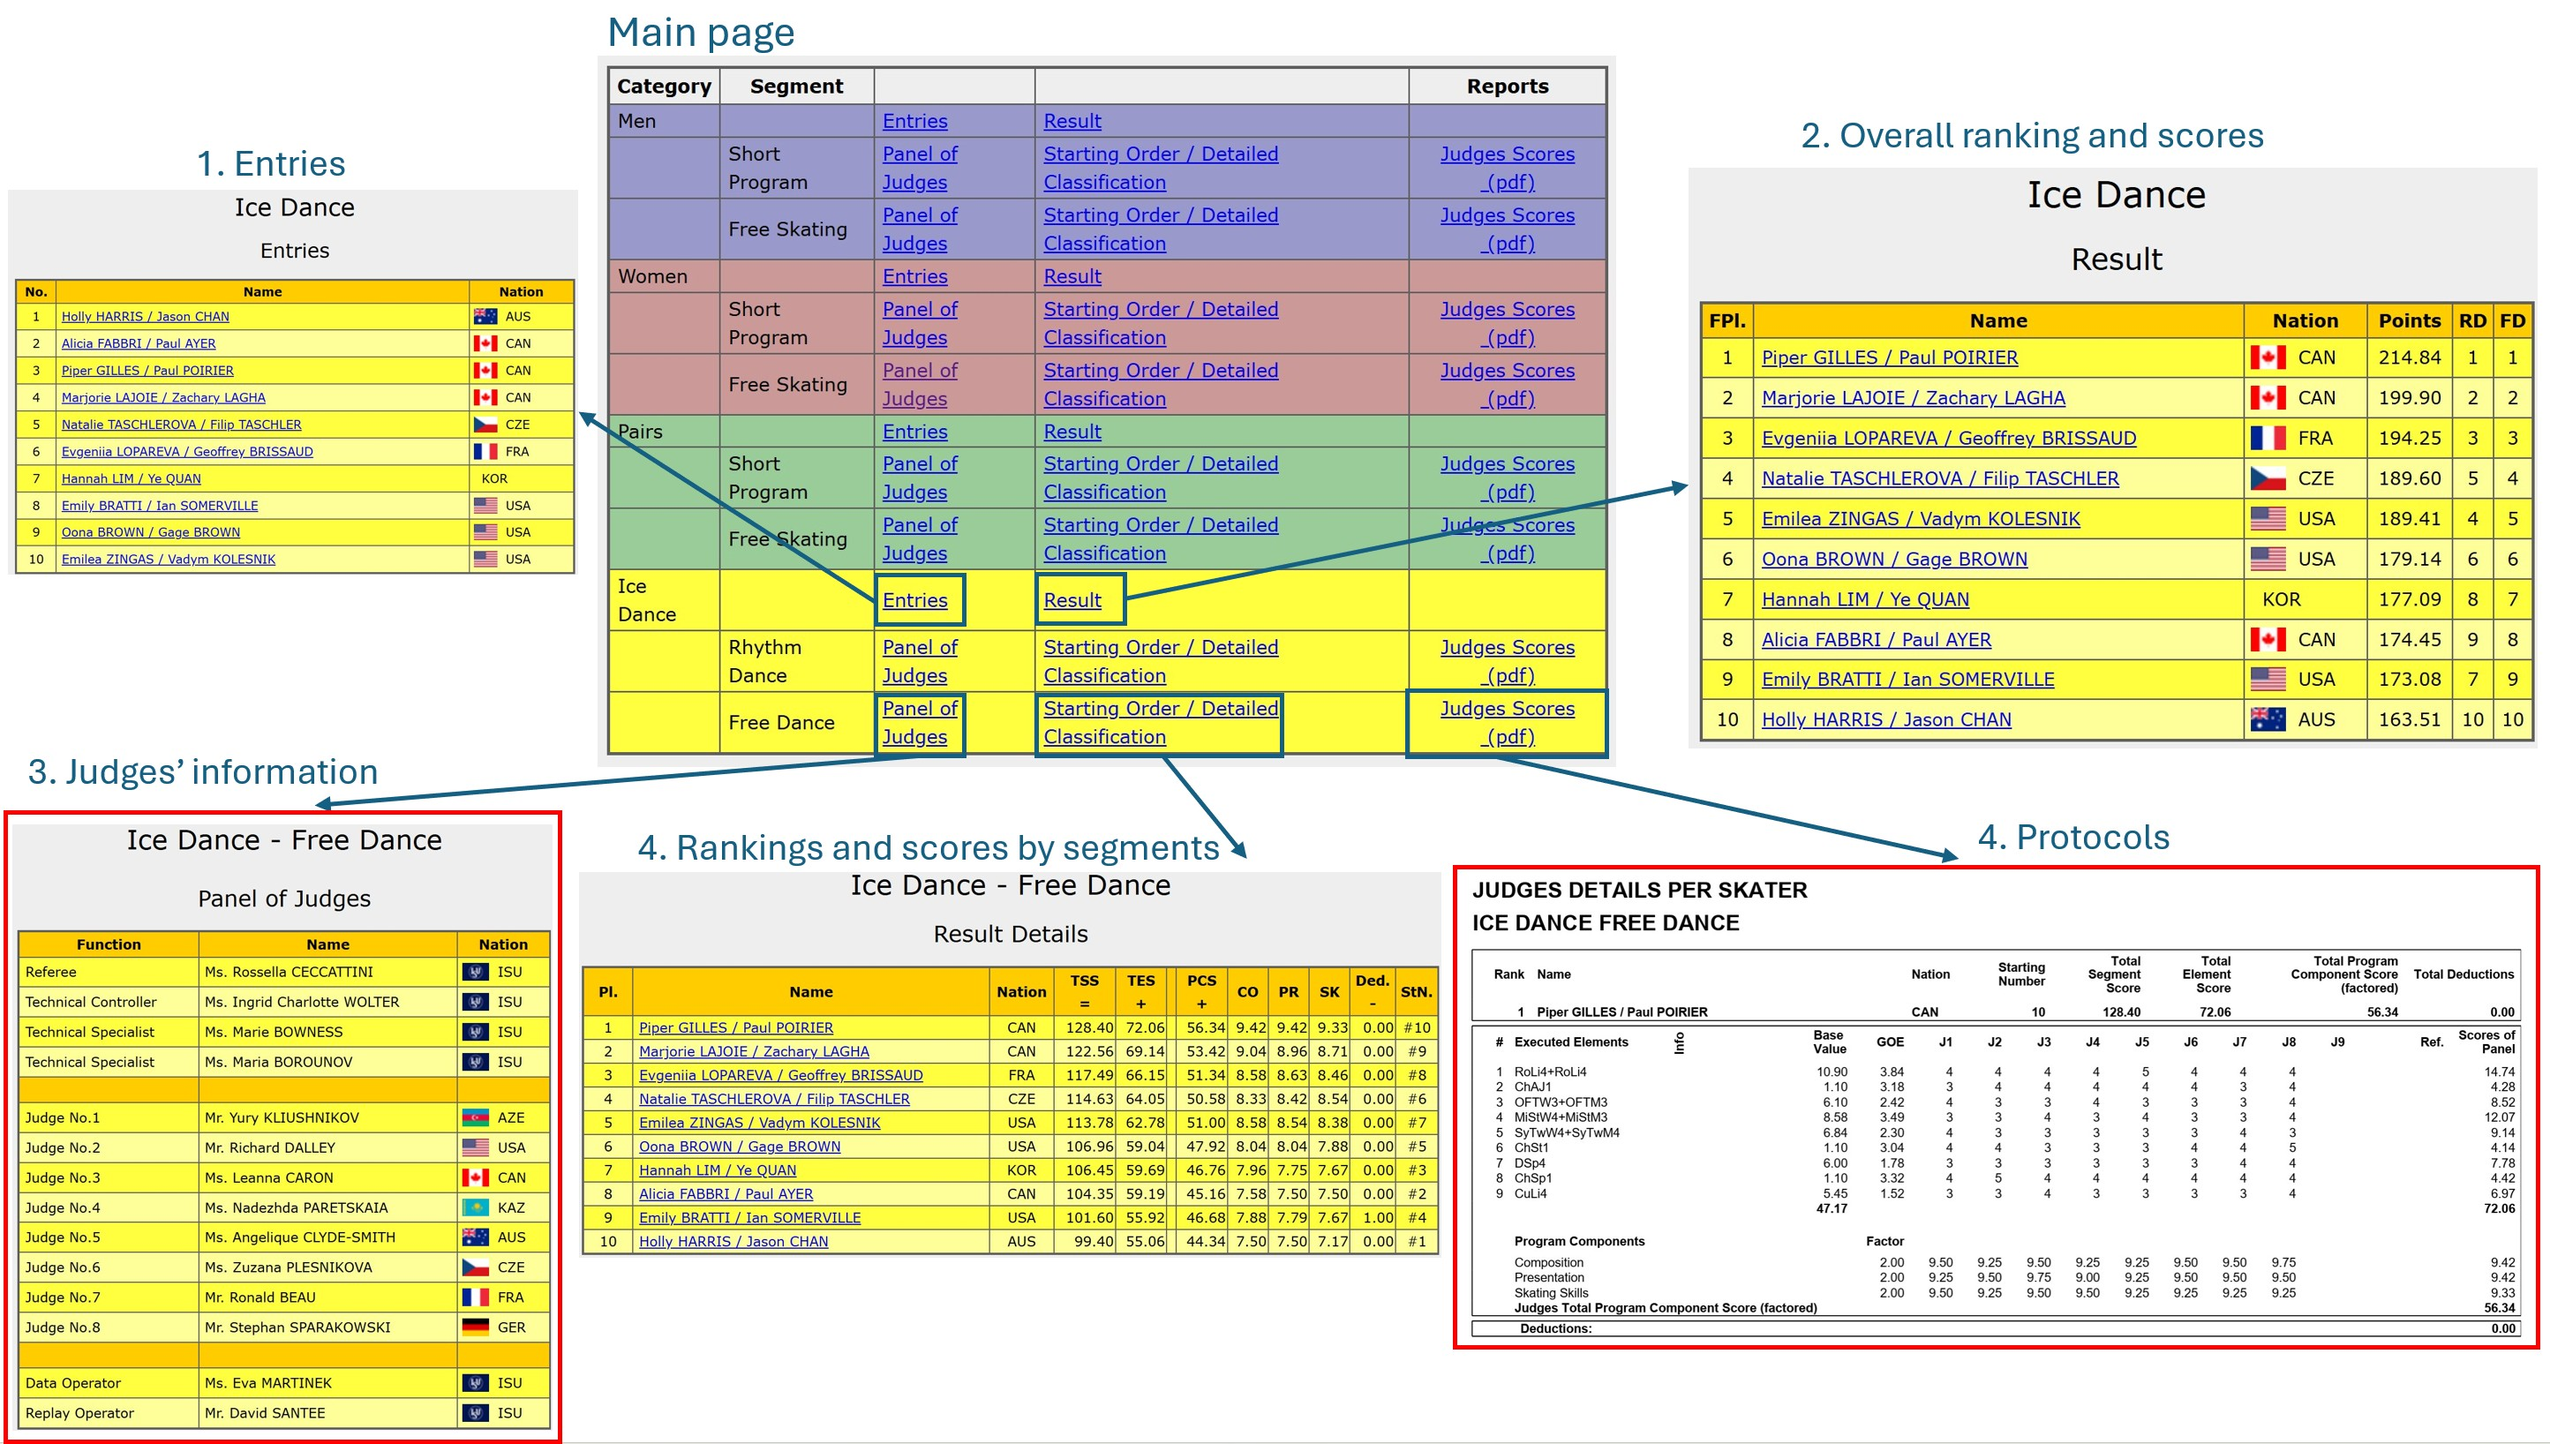
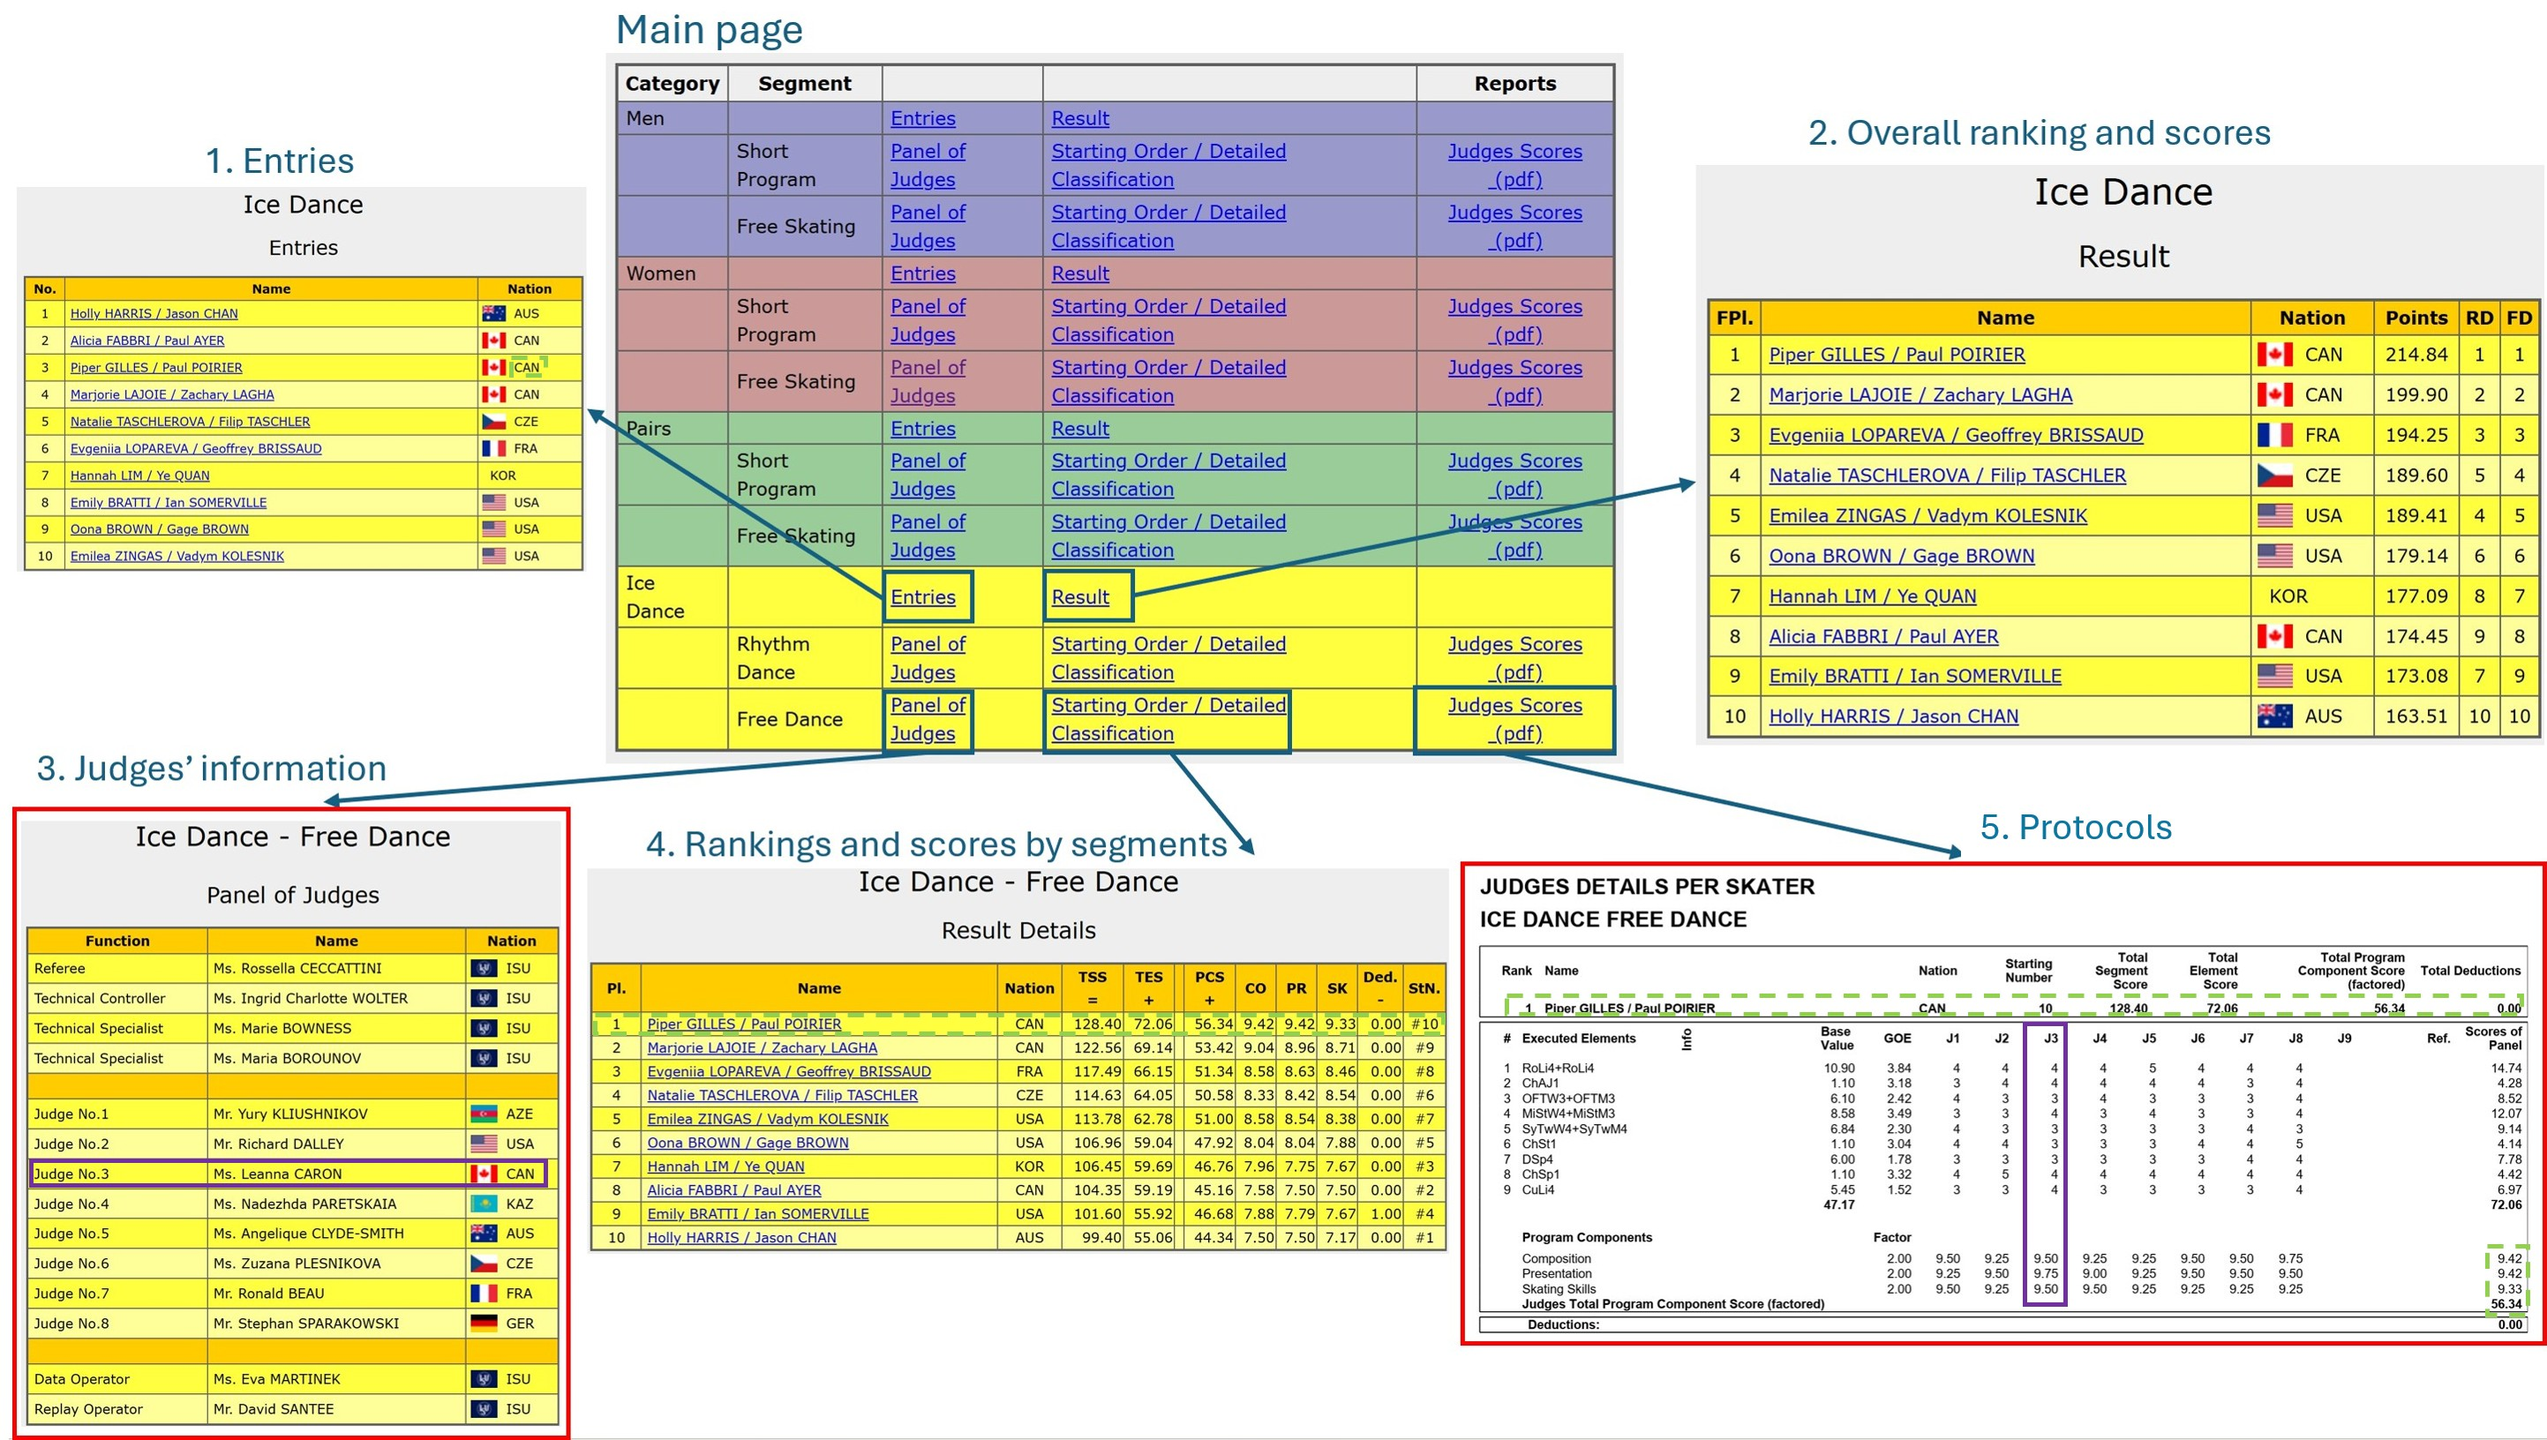
Minor changes in README

Changed region(s): [[0.0, 0.0, 1.0, 1.0]]

diff --git a/README.md b/README.md
@@ -15,9 +15,9 @@ bash run_pipeline.sh
 ```
 
 ## Background
-Figure skating is a sport in which skaters execute pre-planned technical elements (e.g., jumps, spins) within a choreographed routine set to music. There are typically two segments in each competition: short program/rhythm dance (SP) and long program/free dance (LP).[^1] Most competitions contain four disciplines: women, men, ice dance, and pairs. Under the ISU Judging System (IJS), a panel of (typically) 9 judges gives two scores in each segment: the technical element score (TES) and the program component score (PCS). The TES reflects the difficulty and quality of execution for technical elements (such as jumps and spins), and the PCS evaluates the artistic and presentation aspects of the program.
+Figure skating is a sport in which skaters execute pre-planned technical elements (e.g., jumps, spins) within a choreographed routine set to music. There are typically two segments in each competition: short program/rhythm dance (SP) and long program/free dance (FP).[^1] Most competitions contain four disciplines: women, men, ice dance, and pairs. Under the ISU Judging System (IJS), a panel of (typically) 9 judges gives two scores in each segment: the technical element score (TES) and the program component score (PCS). The TES reflects the difficulty and quality of execution for technical elements, and the PCS evaluates the artistic and presentation aspects of the program.
 
-In each season, the ISU holds approximately 18 Level-A competitions, the highest level of international competitions in the sport. These typically include seven Junior Grand Prix (JGP) Series events, six Grand Prix (GP) Series events, the Grand Prix Final (GPF), the Four Continents Championships, the European Championships, the World Championships, and the Junior World Championships. In Olympic seasons, the Olympic Games are also included.
+In each season, the ISU holds approximately 18 elite competitions, the highest level of international competitions in the sport. These typically include seven Junior Grand Prix (JGP) Series events, six Grand Prix (GP) Series events, the Grand Prix Final (GPF), the Four Continents Championships, the European Championships, the World Championships, and the Junior World Championships. In Olympic seasons, the Olympic Games are also held, with figure skating competitions conducted under ISU regulations.
 
 ## Data
 ISU publicizes the detailed competition results after each competition, including not only final rankings and scores, but also the detailed protocols that document the scores given by each judge for each element. Figure 1 shows the information publicized by ISU for Grand Prix (GP) Canada 2024 (click [here](https://www.isuresults.com/results/season2425/gpcan2024/) to see the original webpage). We can see that for each discipline, ISU discloses
@@ -27,9 +27,9 @@ ISU publicizes the detailed competition results after each competition, includin
   4. Ranking and scores by segments;
   5. **Protocols**.
 
-Among these five components, judges’ information and protocols are the most informative. They not only contain detailed, element-by-element scores assigned by each judge, but also allow us to derive higher-level information found in the other components, such as skaters’ nationalities (also documented in 1), segment rankings and segment scores (also documented in 4). Because judges’ information and protocols already subsume the content of the remaining components, I focus on these two sources for data collection.
+Among these five components, **judges’ information (3) and protocols (5) are the most informative** (highlighted with a red box in Figure 1). With these two pieces of information, we are able to trace element-level scores given by each judge to each skater by mapping judges' ids between the two sources (see the purple boxes).[^2] In addition, using the protocols we can also derive higher-level information found in the other components, such as skaters’ nationalities, starting orders, segment rankings and segment scores (see the dashed green boxes). Because judges’ information and protocols already subsume the content of the remaining components, I focus on these two sources for data collection.
 
-For each competition, all available information is downloaded in HTML or PDF formats. Web scraping and PDF extraction techniques are then applied to reconstruct the judges’ information and protocols into structured tabular datasets.
+For each competition, all available information is downloaded in HTML or PDF formats. Web scraping and PDF extraction techniques are then applied to reconstruct the judges’ information (3) and protocols (5) into structured tabular datasets.
 
 <p align="center">
   <img src="screenshots/gpcan.jpg" alt="Alt text" width="800"/>
@@ -41,15 +41,15 @@ For each competition, all available information is downloaded in HTML or PDF for
 run_pipeline.sh executes the following scripts sequentially.
 1. 01_download_main_page_to_html.py
     - For each competition URL listed in ``data/links/comp_links.csv``, this script downloads the main results page as an HTML file and stores it under ``data/raw/{comp_name_abbre}/{comp_name_abbre}.html``.
-        - ``data/links/comp_links.csv`` contains 379 competition URLs covering the 2004–2005 through 2024–2025 seasons. These URLs are collected using the ISU’s link naming conventions combined with manual search and verification. **The version of comp_links.csv included in this repository contains a sample of 8 links for demonstration purposes**. The full list is available upon request.
+        - ``data/links/comp_links.csv`` contains **379** competition URLs covering the 2004–2005 through 2024–2025 seasons. These URLs are collected using the ISU’s link naming conventions combined with manual search and verification. **The version of comp_links.csv included in this repository contains a sample of 8 links for demonstration purposes**. The full list is available upon request.
 2. 02_link_name_mapping.py
     - For each downloaded main results page, this script extracts the table containing internal links to the detailed competition information — namely, the five components described in the Data section — and constructs a mapping between each link and its corresponding descriptive name. The name mapping files are stored under ``data/raw/{comp_name_abbre}/link_name_mapping.json``.
 3. 03_download_results_to_html_or_pdf.py
     - Using the ``link_name_mapping.json`` constructed in the previous step, this script downloads detailed competition results, protocols and judges' information (the five components described in the Data section) as HTML or PDF files and stores them under the respective competition directories.
 4. 04_judge_scraping.py
-    - This script identifies HTML files that contain judge information based on the ``link_name_mapping.json`` files created in step 02, and extracts judge information for each competition and saves it as pickled DataFrames in the respective competition directories.
+    - This script identifies HTML files that contain judge information based on the ``link_name_mapping.json`` files created in step 02, and extracts judges' information for each competition and saves it as pickled DataFrames in the respective competition directories.
 5. 05_judge_cleaning.py
-    - This script appends and cleans the judge information from all competitions and stores it under ``data/cleaned/judges.pkl``. To preserve the origin of each record, the script adds contextual identifiers — including competition name, season, discipline (e.g., women), and segment (e.g., short program) — so that every row can be traced back to its source competition, discipline, and segment.
+    - This script appends and cleans the judges' information from all competitions and stores it under ``data/cleaned/judges.pkl``. To preserve the origin of each record, the script adds contextual identifiers — including competition name, season, discipline (e.g., women), and segment (e.g., short program) — so that every row can be traced back to its source competition, discipline, and segment.
 6. 06_protocol_pdf_scraping.py
     - This script identifies PDF files that contain the protocols (detailed scoring sheets) based on the ``link_name_mapping.json`` files created in step 02, and extracts detailed element-level scores assigned by each judge for each competition and saves it as pickled DataFrames in the respective competition directories.
 7. 07_protocol_pdf_cleaning.py
@@ -64,7 +64,7 @@ To facilitate exploration and understanding of the data structure, a sample raw 
 |-- README.md
 |-- data
 |   |-- cleaned
-|   |   |-- judges.pkl # cleaned dataset for judge information (step 05 output)
+|   |   |-- judges.pkl # cleaned dataset for judges' information (step 05 output)
 |   |   `-- protocols.pkl # cleaned dataset for protocols (step 07 output)
 |   |-- links
 |   |   `-- comp_links.csv # input dataset (a sample list of competition result page URLs; full list available upon request)
@@ -79,3 +79,4 @@ To facilitate exploration and understanding of the data structure, a sample raw 
 
 
 [^1]: Before the 2011-2013 season, the ice dance had three segments: compulsory dance (CD), original dance (OD) and free dance (FD).
+[^2]: Note that before the 2016–2017 season, the ISU used anonymous judging, and judge IDs were randomized in the protocols. Therefore, we are only able to link judges’ names with their scores for competitions held from the 2016–2017 season onward.
